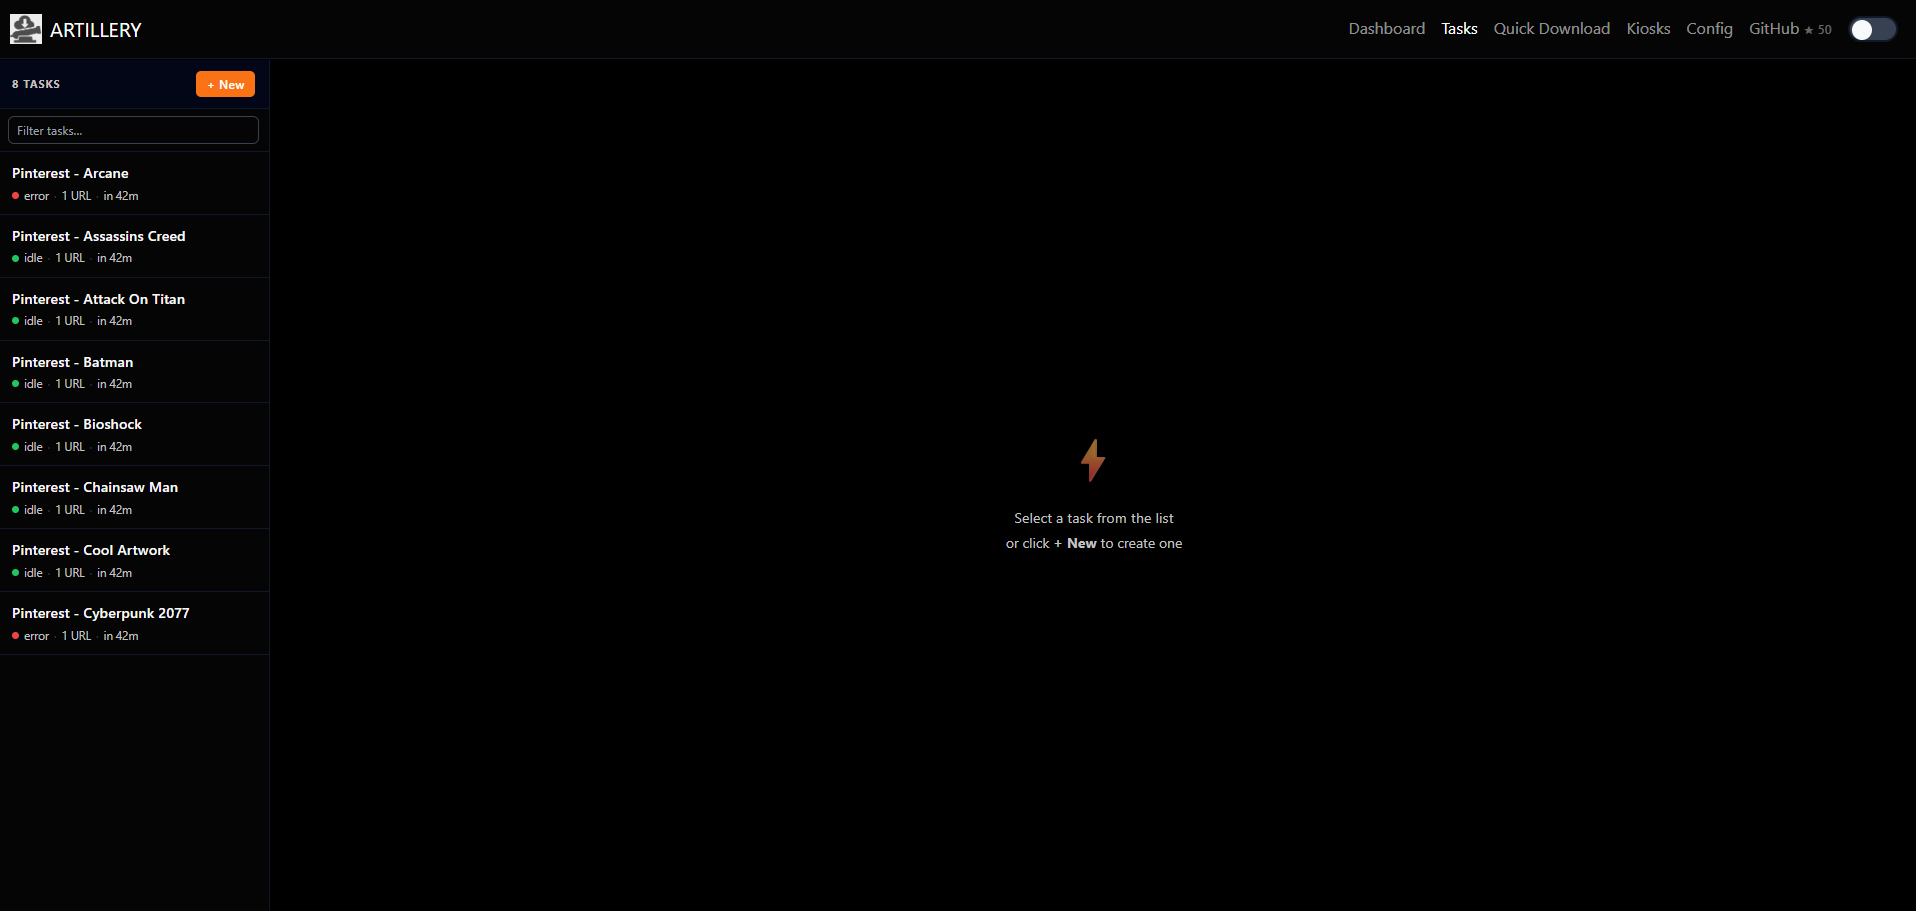
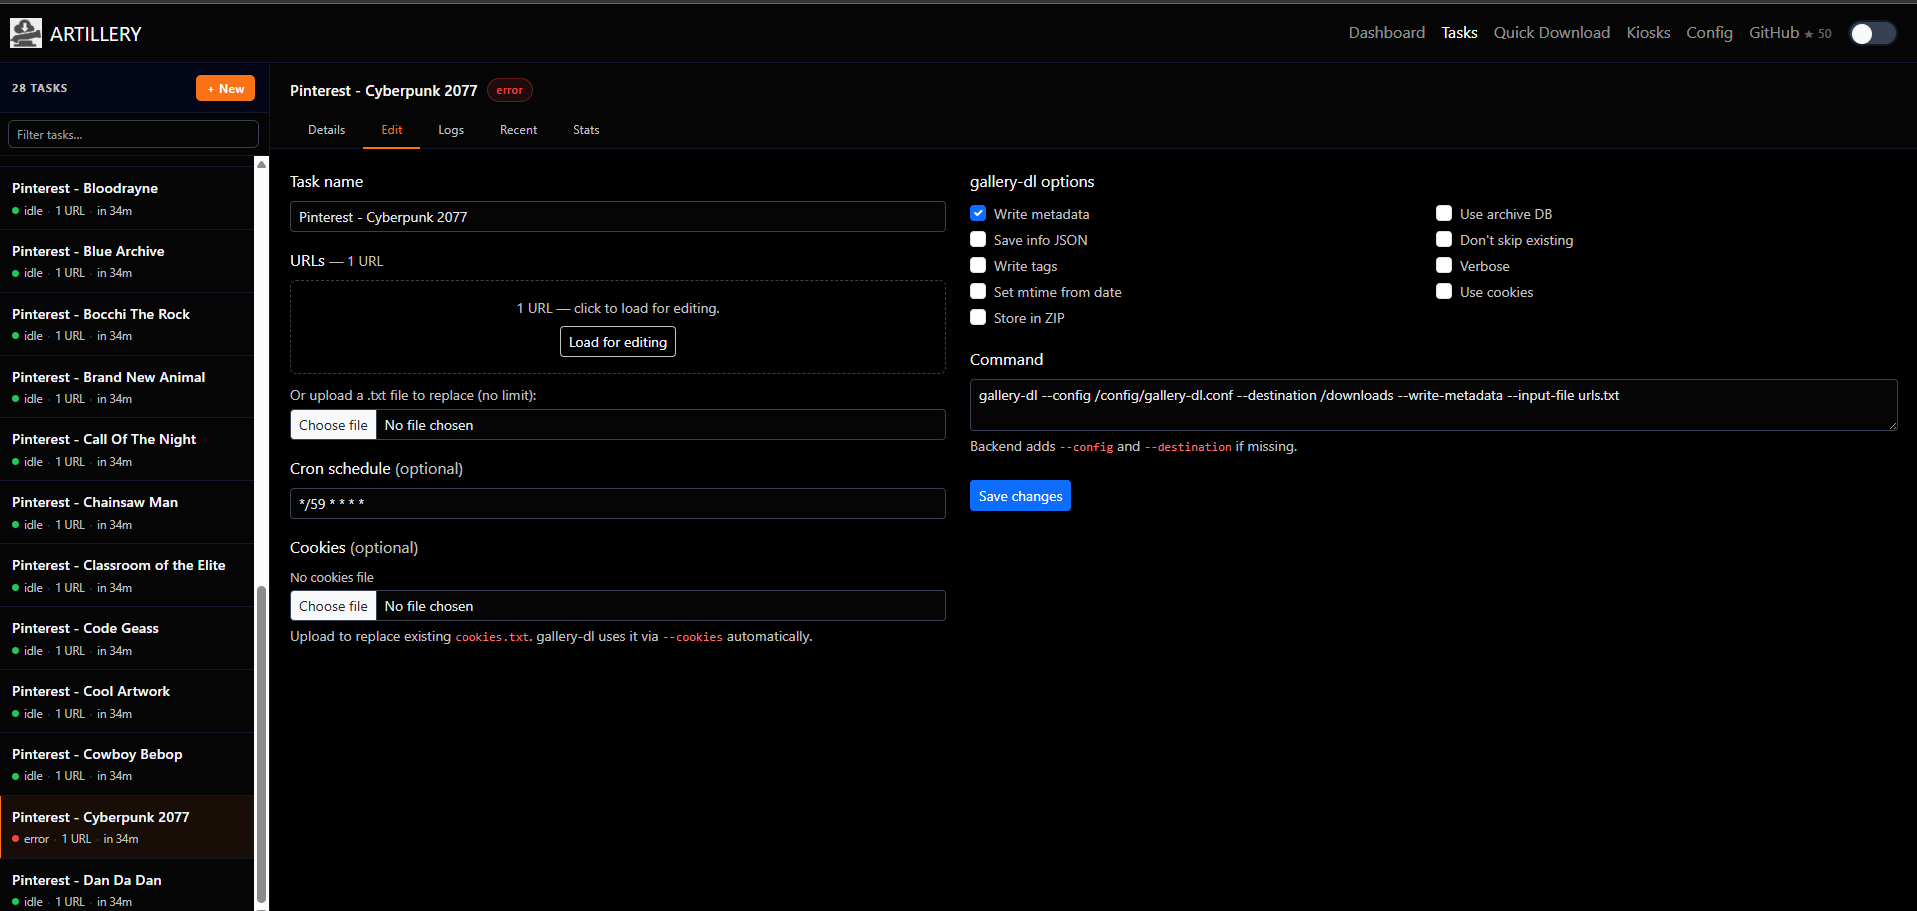
disk usage notification

diff --git a/templates/tasks.html b/templates/tasks.html
@@ -67,6 +67,49 @@ body { padding-top: 60px !important; }
     border-radius: 6px;
 }
 
+/* Disk usage footer */
+.t-disk-box {
+    flex-shrink: 0;
+    border-top: 1px solid var(--border-color);
+    padding: 10px 14px;
+    background: var(--bg-tertiary);
+}
+.t-disk-label {
+    display: flex;
+    justify-content: space-between;
+    align-items: baseline;
+    font-size: 0.68rem;
+    font-weight: 700;
+    letter-spacing: 0.07em;
+    text-transform: uppercase;
+    color: var(--text-muted);
+    margin-bottom: 6px;
+}
+.t-disk-label-val {
+    font-weight: 500;
+    letter-spacing: 0;
+    text-transform: none;
+    color: var(--text-primary);
+}
+.t-disk-track {
+    height: 4px;
+    background: var(--border-color);
+    border-radius: 2px;
+    overflow: hidden;
+    margin-bottom: 5px;
+}
+.t-disk-fill {
+    height: 100%;
+    background: var(--focus-color);
+    border-radius: 2px;
+    transition: width 0.4s ease;
+}
+.t-disk-fill.danger { background: #ef4444; }
+.t-disk-sub {
+    font-size: 0.7rem;
+    color: var(--text-muted);
+}
+
 /* Task list item */
 .t-item {
     display: block;
@@ -467,6 +510,18 @@ a.r-item:hover {
       {% else %}
         <div class="p-3 text-center" style="font-size:0.8rem;color:var(--text-muted);">No tasks yet.</div>
       {% endif %}
+    </div>
+
+    <!-- Disk usage footer -->
+    <div class="t-disk-box" id="diskBox">
+        <div class="t-disk-label">
+            <span>Downloads disk</span>
+            <span class="t-disk-label-val" id="diskVal">—</span>
+        </div>
+        <div class="t-disk-track">
+            <div class="t-disk-fill" id="diskFill" style="width:0%"></div>
+        </div>
+        <div class="t-disk-sub" id="diskSub">Loading…</div>
     </div>
   </aside>
 
@@ -1351,7 +1406,36 @@ a.r-item:hover {
         }
         pollStatus();
         setInterval(pollStatus, 5000);
+
+        loadDisk();
+        setInterval(loadDisk, 60000);
     });
+
+    /* ── Disk usage ───────────────────────────────────────────────────── */
+    function fmtBytes(b) {
+        if (b >= 1e12) return (b / 1e12).toFixed(1) + ' TB';
+        if (b >= 1e9)  return (b / 1e9).toFixed(1)  + ' GB';
+        if (b >= 1e6)  return (b / 1e6).toFixed(1)  + ' MB';
+        return Math.round(b / 1024) + ' KB';
+    }
+    function loadDisk() {
+        fetch('/api/disk')
+            .then(function(r) { return r.ok ? r.json() : null; })
+            .then(function(d) {
+                if (!d || d.error) return;
+                var pct = d.total > 0 ? (d.used / d.total * 100) : 0;
+                var fill = document.getElementById('diskFill');
+                fill.style.width = pct.toFixed(1) + '%';
+                fill.className = 't-disk-fill' + (pct >= 90 ? ' danger' : '');
+                document.getElementById('diskVal').textContent =
+                    fmtBytes(d.used) + ' / ' + fmtBytes(d.total);
+                document.getElementById('diskSub').textContent =
+                    fmtBytes(d.free) + ' free (' + pct.toFixed(0) + '% used)';
+            })
+            .catch(function() {
+                document.getElementById('diskSub').textContent = 'Unavailable';
+            });
+    }
 
 }());
 </script>

diff --git a/app.py b/app.py
@@ -1128,6 +1128,16 @@ def tasks():
     return render_template("tasks.html", tasks=tasks_list)
 
 
[email redacted]("/api/disk")
+def api_disk():
+    try:
+        usage = shutil.disk_usage(DOWNLOADS_ROOT)
+        return jsonify({"total": usage.total, "used": usage.used, "free": usage.free})
+    except Exception:
+        app.logger.warning("Could not get disk usage for %s", DOWNLOADS_ROOT, exc_info=True)
+        return jsonify({"error": "unavailable"}), 500
+
+
 @app.route("/api/tasks")
 def api_tasks():
     """Return a lightweight JSON representation of tasks for front-end polling."""